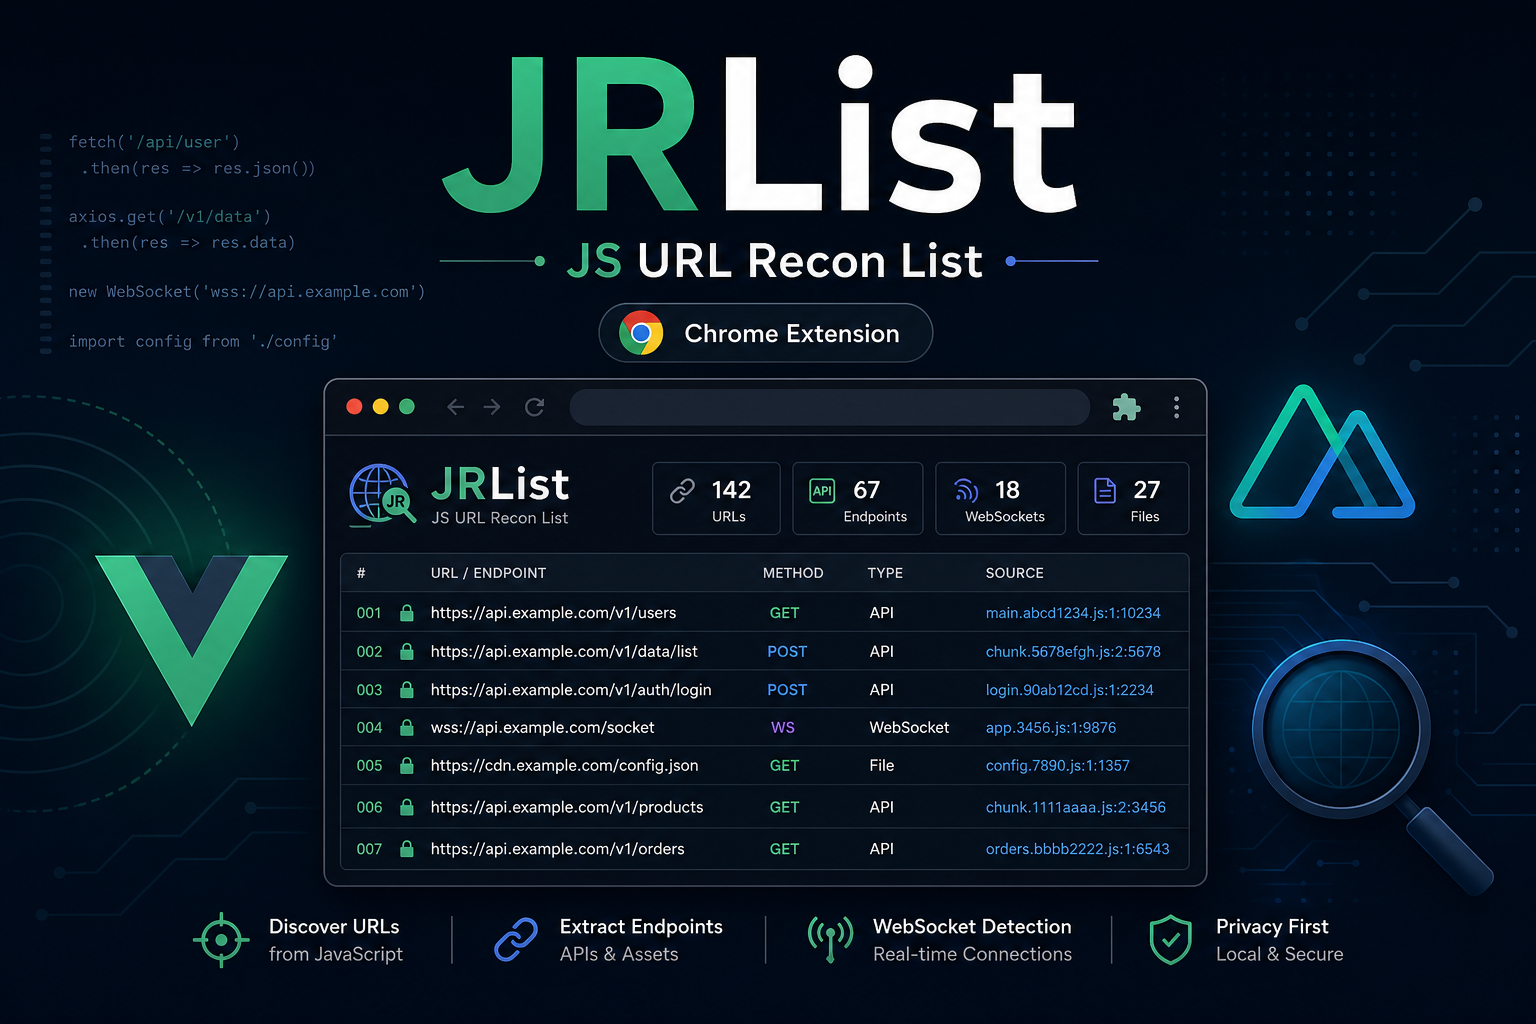
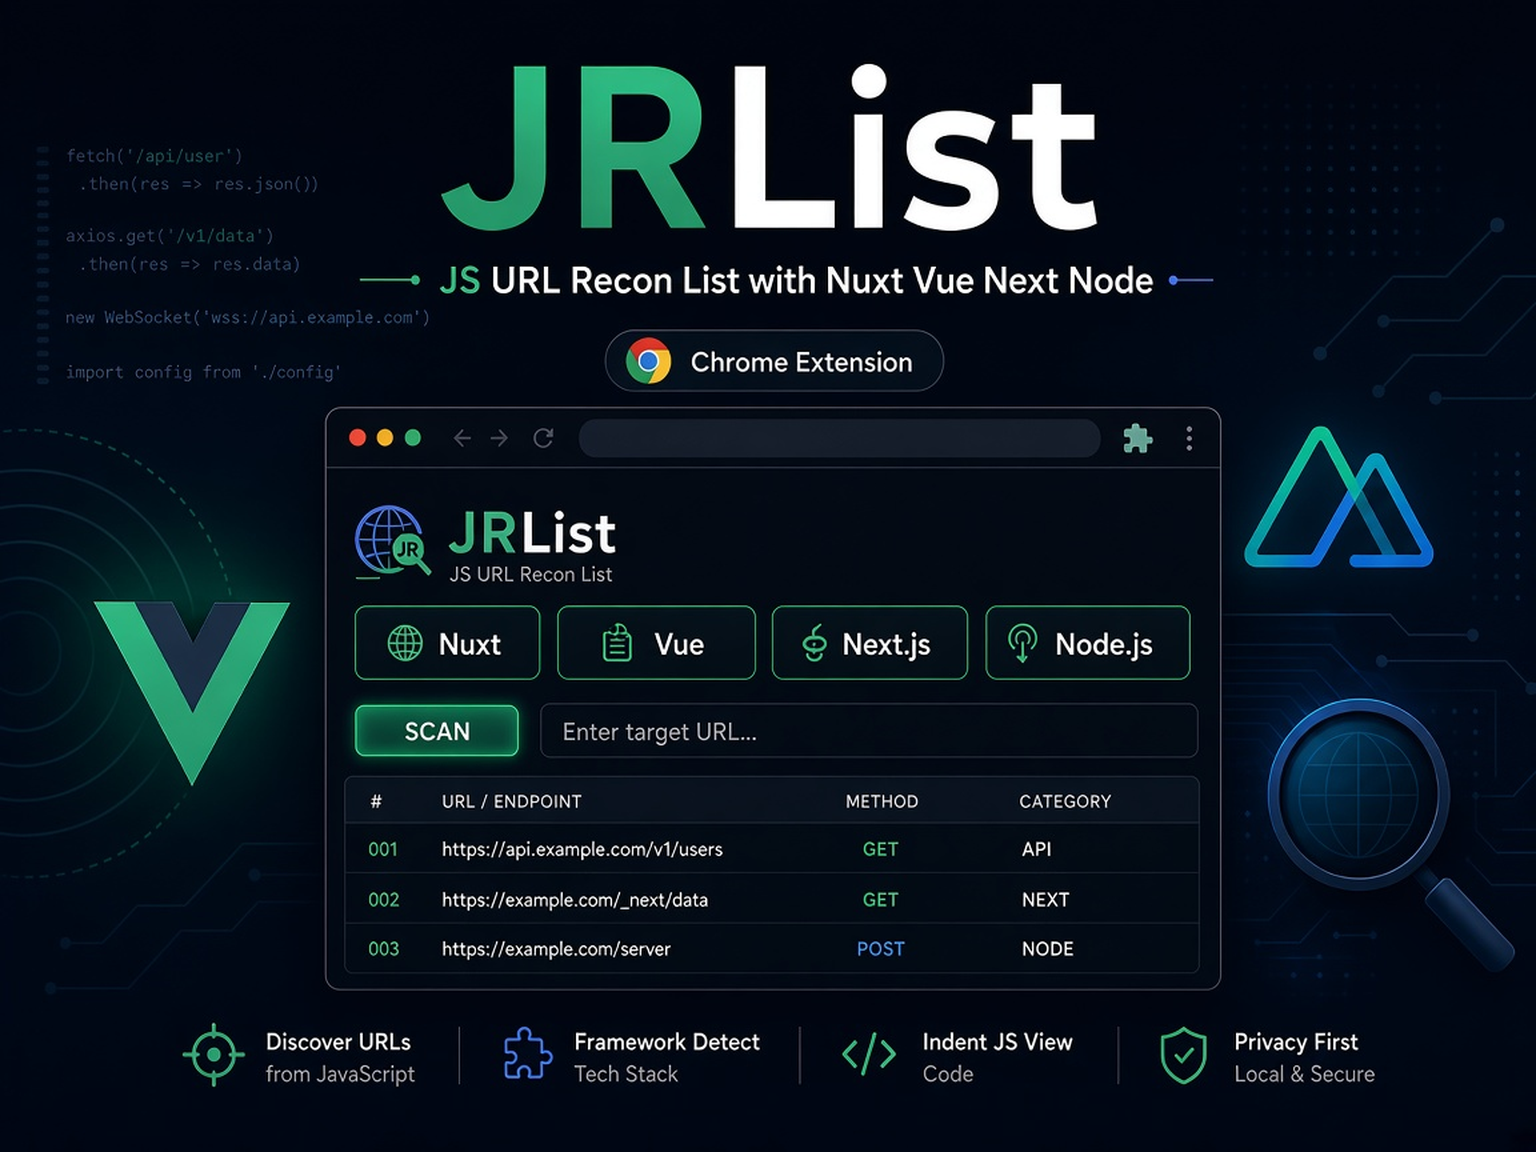
docs: refresh README and cover for v1.3.0
Update English/Korean docs for Node detection, popup UX, and indent-only
JS view. Replace cover art to show Nuxt / Vue / Next / Node.

diff --git a/README.md b/README.md
@@ -12,6 +12,7 @@
 
 <p align="center">
   <a href="https://github.com/KaiHT-Ladiant/JRList/releases"><img alt="Release" src="https://img.shields.io/github/v/release/KaiHT-Ladiant/JRList?include_prereleases&label=release" /></a>
+  <a href="https://img.shields.io/badge/version-1.3.0-blue.svg"><img alt="Version" src="https://img.shields.io/badge/version-1.3.0-blue.svg" /></a>
   <a href="./LICENSE"><img alt="License" src="https://img.shields.io/badge/license-MIT-blue.svg" /></a>
   <a href="./PRIVACY.md"><img alt="Privacy" src="https://img.shields.io/badge/privacy-policy-important" /></a>
 </p>
@@ -28,6 +29,15 @@
 Helper for **authorized** penetration testing, bug bounty, and frontend recon.
 
 > Use only on targets you are allowed to test.
+
+---
+
+## What's new in 1.3.0
+
+- Popup stays open while you copy URLs or open them in a background tab
+- Last scan result and filters restore from session storage
+- **Node.js** detection (`process.env`, CJS/`require`, Express / Nest / Fastify signals)
+- `{}` on script URLs — fetch + **indent-only** pretty view (not deobfuscation)
 
 ---
 
@@ -66,6 +76,11 @@ cd JRList
 
 Download from [Releases](https://github.com/KaiHT-Ladiant/JRList/releases).
 
+| Artifact | Use |
+|----------|-----|
+| `JRList.zip` | **Chrome Web Store** package upload / unpack locally |
+| `JRList.crx` | Local packaging tests only |
+
 > Local `.crx` files are not Web Store–signed. Chrome may show **`CRX_REQUIRED_PROOF_MISSING`**. Prefer the [Chrome Web Store](https://chromewebstore.google.com/detail/jrlist/hnpipndkccnolpkngcbkdangkcgpidgp) listing or **Load unpacked**.
 
 ---
@@ -95,7 +110,8 @@ Download from [Releases](https://github.com/KaiHT-Ladiant/JRList/releases).
 1. Popup injects content scripts into the active tab  
 2. MAIN-world harvest reads framework globals (`__NUXT__`, `__NEXT_DATA__`, …) despite CSP  
 3. DOM / scripts / bundles are parsed; `baseURL` values resolve relative paths  
-4. Heuristic endpoints (e.g. Nuxt `_payload.json`, Next `/_next/data/...`) are added **only when real references exist**
+4. Node signals are collected from page text, polyfills, and response headers when available  
+5. Heuristic endpoints (e.g. Nuxt `_payload.json`, Next `/_next/data/...`) are added **only when real references exist**
 
 ---
 
@@ -108,7 +124,7 @@ py scripts/pack_crx.py
 
 | Output | Description |
 |--------|-------------|
-| `dist/JRList.zip` | Extension package |
+| `dist/JRList.zip` | Extension package (**upload this to Chrome Web Store**) |
 | `dist/JRList.crx` | Locally signed CRX3 |
 | `keys/extension.pem` | Signing key — **never commit or share** |
 
@@ -123,13 +139,15 @@ JRList/
 ├── content/content.js
 ├── lib/
 │   ├── url-parser.js
-│   └── page-bridge.js
+│   ├── page-bridge.js
+│   └── js-format.js
 ├── popup/
 ├── icons/
 ├── assets/cover.png
 ├── scripts/
 │   ├── pack_crx.py
-│   └── generate_icons.py
+│   ├── generate_icons.py
+│   └── prepare_store_assets.py
 ├── PRIVACY.md
 ├── README.md
 ├── README.ko.md
@@ -156,6 +174,7 @@ JRList does **not** send scan data to the developer. See [PRIVACY.md](./PRIVACY.
 
 - Cross-origin JS may be unreadable (CORS)
 - Obfuscated / runtime-only URLs may be missed
+- Indent view is formatting only — it does **not** deobfuscate
 - Recon-style extensions can trigger AV/EDR false positives
 
 ---

diff --git a/README.ko.md b/README.ko.md
@@ -12,6 +12,7 @@
 
 <p align="center">
   <a href="https://github.com/KaiHT-Ladiant/JRList/releases"><img alt="Release" src="https://img.shields.io/github/v/release/KaiHT-Ladiant/JRList?include_prereleases&label=release" /></a>
+  <a href="https://img.shields.io/badge/version-1.3.0-blue.svg"><img alt="Version" src="https://img.shields.io/badge/version-1.3.0-blue.svg" /></a>
   <a href="./LICENSE"><img alt="License" src="https://img.shields.io/badge/license-MIT-blue.svg" /></a>
   <a href="./PRIVACY.md"><img alt="Privacy" src="https://img.shields.io/badge/privacy-policy-important" /></a>
 </p>
@@ -28,6 +29,15 @@
 **허가된** 펜테스트·버그바운티·프론트 리콘용 보조 도구입니다.
 
 > 허가받은 대상에만 사용하세요.
+
+---
+
+## 1.3.0 변경점
+
+- URL 복사·백그라운드 탭 열기 시 **팝업 유지**
+- 마지막 스캔 결과·필터를 세션에서 복원
+- **Node.js** 감지 (`process.env`, CJS/`require`, Express·Nest·Fastify 시그널)
+- `.js` URL의 `{}` — 가져와 **들여쓰기만** 정리 (난독화 해제 아님)
 
 ---
 
@@ -66,6 +76,11 @@ cd JRList
 
 [Releases](https://github.com/KaiHT-Ladiant/JRList/releases)에서 다운로드합니다.
 
+| 파일 | 용도 |
+|------|------|
+| `JRList.zip` | **Chrome Web Store** 업로드 / 로컬 압축해제 |
+| `JRList.crx` | 로컬 패키징 테스트용 |
+
 > 로컬 `.crx`는 Web Store 서명이 없어 **`CRX_REQUIRED_PROOF_MISSING`** 이 날 수 있습니다. [Chrome Web Store](https://chromewebstore.google.com/detail/jrlist/hnpipndkccnolpkngcbkdangkcgpidgp) 게시본 또는 **압축해제 로드**를 권장합니다.
 
 ---
@@ -95,7 +110,8 @@ cd JRList
 1. 팝업이 활성 탭에 content script 주입  
 2. MAIN world에서 프레임워크 전역 수집 (CSP 대응)  
 3. DOM / 스크립트 / 번들 파싱 및 baseURL 결합  
-4. Nuxt `_payload.json`, Next `/_next/data/...` 등은 **실제 참조가 있을 때만** 추가
+4. Node 시그널(페이지 텍스트·폴리필·응답 헤더) 수집  
+5. Nuxt `_payload.json`, Next `/_next/data/...` 등은 **실제 참조가 있을 때만** 추가
 
 ---
 
@@ -108,7 +124,7 @@ py scripts/pack_crx.py
 
 | 출력 | 설명 |
 |------|------|
-| `dist/JRList.zip` | 확장 패키지 |
+| `dist/JRList.zip` | 확장 패키지 (**Chrome Web Store 업로드용**) |
 | `dist/JRList.crx` | 로컬 서명 CRX3 |
 | `keys/extension.pem` | 서명키 — **커밋/공유 금지** |
 
@@ -123,13 +139,15 @@ JRList/
 ├── content/content.js
 ├── lib/
 │   ├── url-parser.js
-│   └── page-bridge.js
+│   ├── page-bridge.js
+│   └── js-format.js
 ├── popup/
 ├── icons/
 ├── assets/cover.png
 ├── scripts/
 │   ├── pack_crx.py
-│   └── generate_icons.py
+│   ├── generate_icons.py
+│   └── prepare_store_assets.py
 ├── PRIVACY.md
 ├── README.md
 ├── README.ko.md
@@ -156,6 +174,7 @@ JRList/
 
 - Cross-origin JS는 CORS로 못 읽을 수 있음  
 - 난독화·런타임 조합 URL은 놓칠 수 있음  
+- `{}` 보기는 들여쓰기만 — **난독화 해제 아님**  
 - AV/EDR 오탐 가능  
 
 ---
